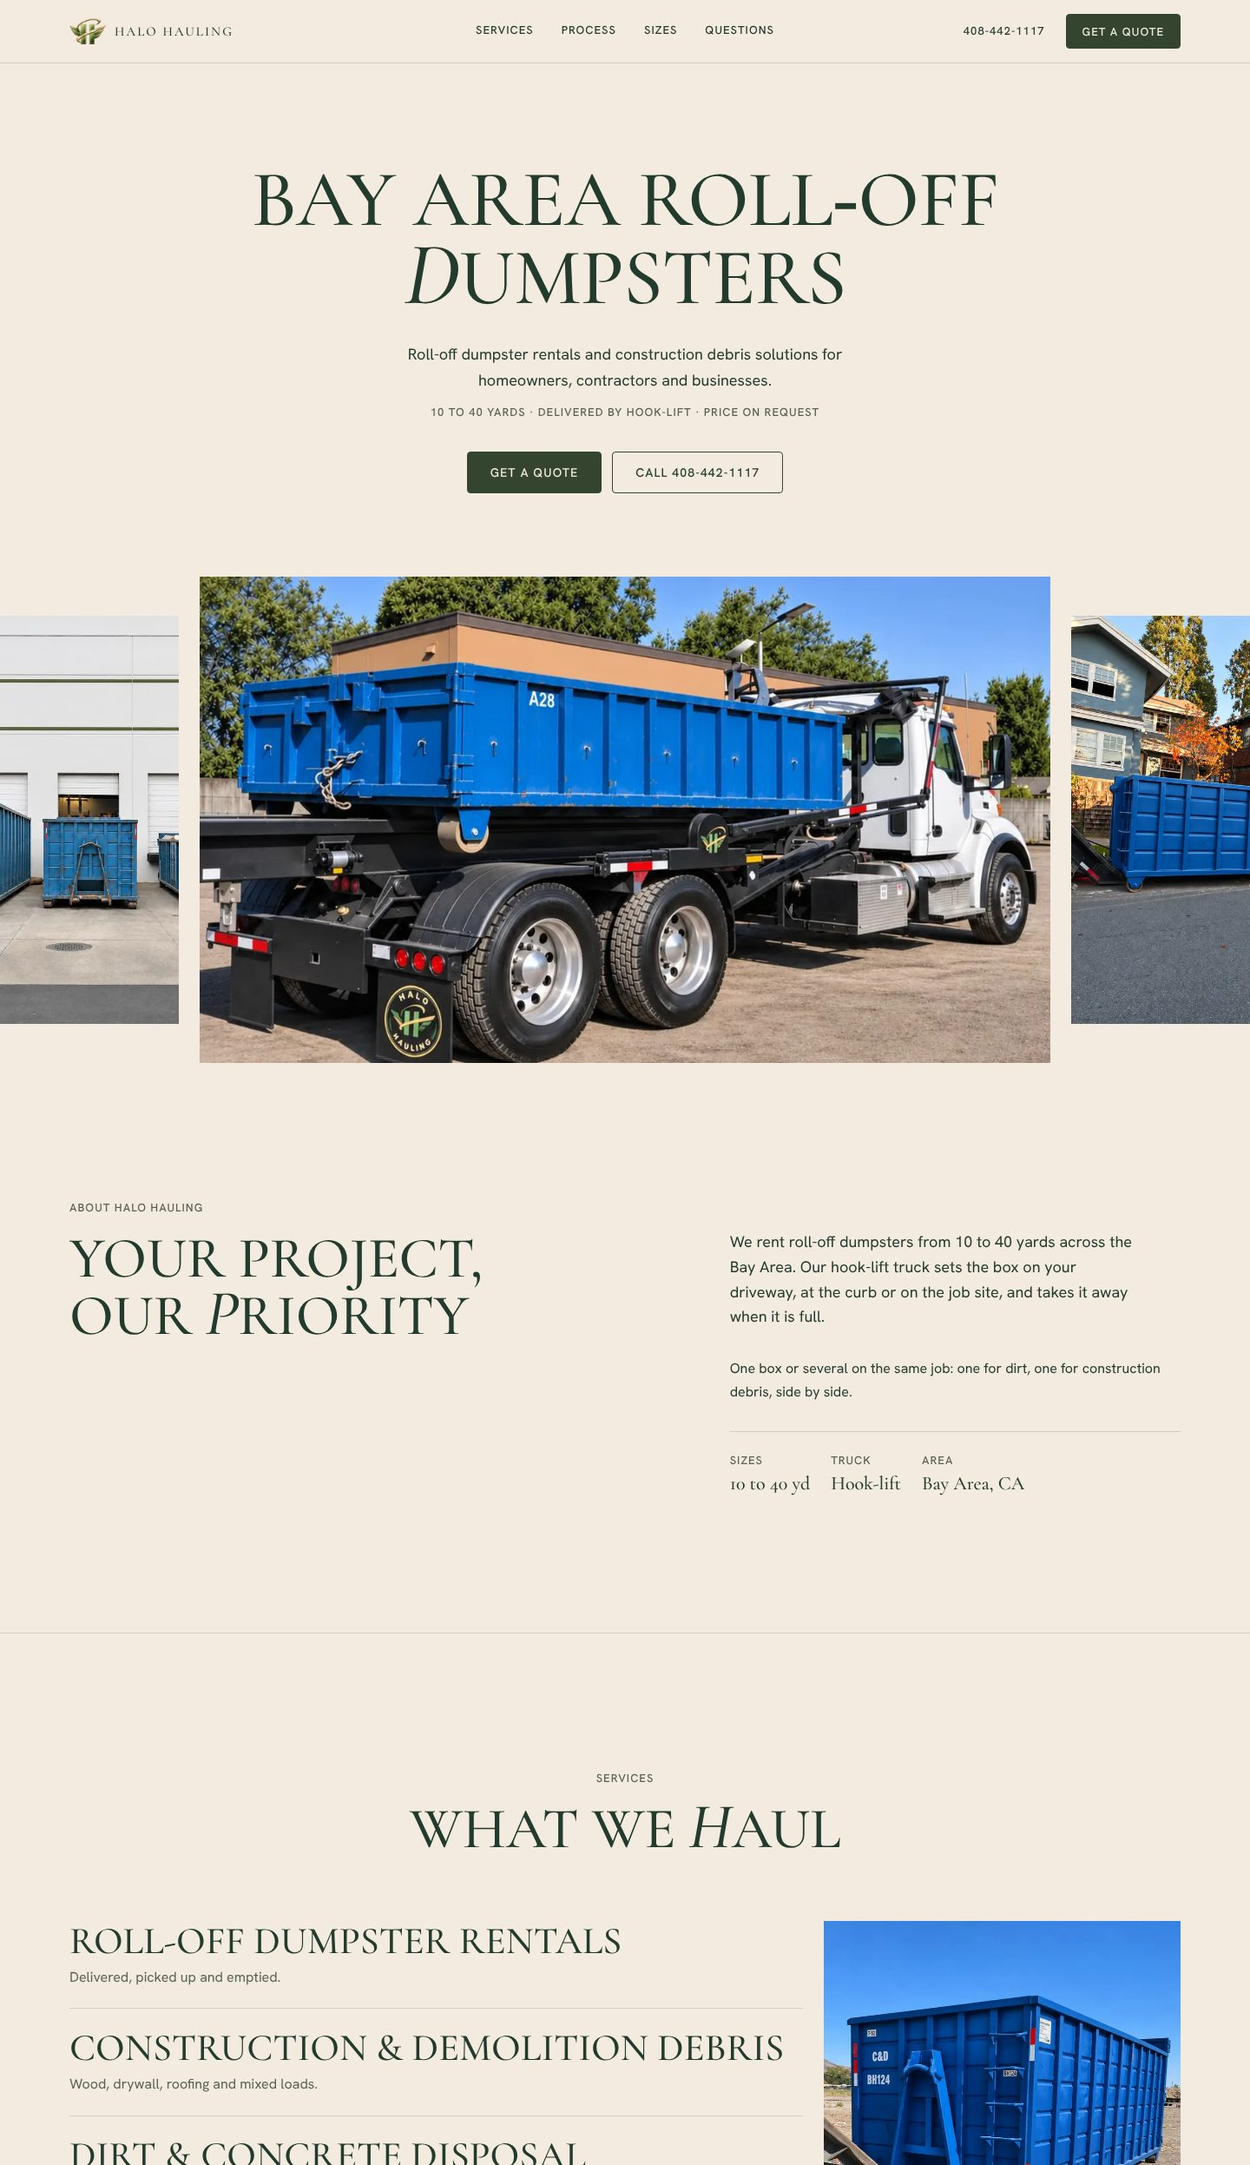
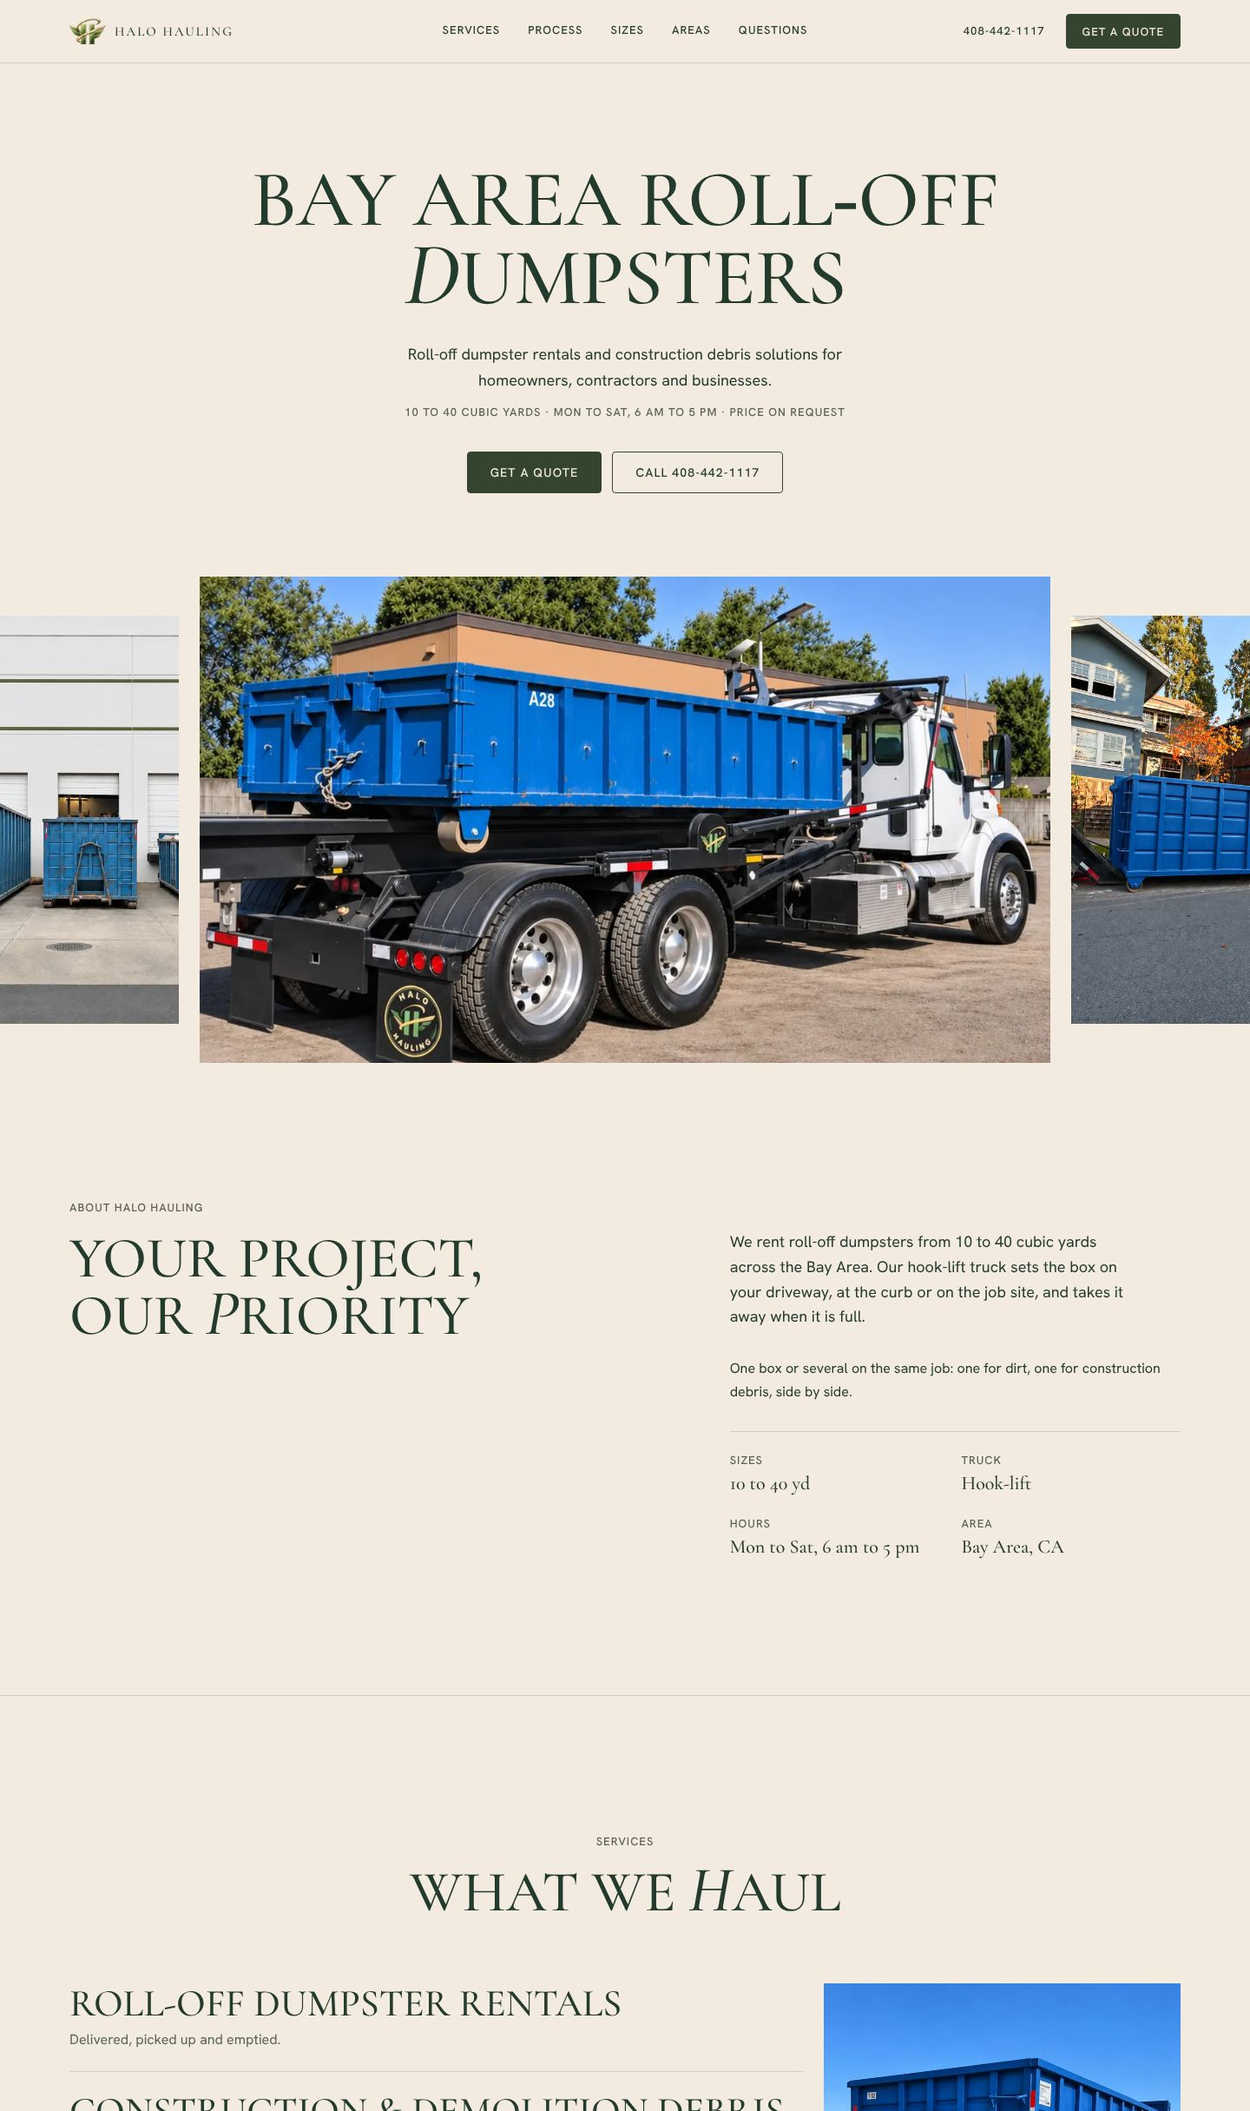
Landing page: add hours, six sizes, materials, service areas and placement
Claude-Session: https://claude.ai/code/session_01D1zbuP5dsXHYhoAWNQLH19

diff --git a/index.html b/index.html
@@ -109,11 +109,11 @@ section { padding-block: clamp(80px, 11vw, 160px); }
 .intro__head { grid-column: 1 / span 6; }
 .intro__head .h2 { margin-top: 16px; }
 .intro__body { grid-column: 8 / span 5; padding-top: 34px; display: grid; gap: 32px; }
-.facts { display: grid; grid-template-columns: repeat(3, auto); gap: 24px; justify-content: start; border-top: 1px solid var(--line); padding-top: 24px; }
+.facts { display: grid; grid-template-columns: repeat(2, auto); gap: 24px 48px; justify-content: start; border-top: 1px solid var(--line); padding-top: 24px; }
 .facts dt { margin-bottom: 4px; }
 .facts dd { font: 500 22px/1.2 var(--serif); }
 @media (max-width: 1023px) { .intro__head, .intro__body { grid-column: 1 / -1; } .intro__body { padding-top: 0; } }
-@media (max-width: 479px) { .facts { grid-template-columns: 1fr 1fr; } }
+@media (max-width: 479px) { .facts { grid-template-columns: 1fr; gap: 16px; } }
 
 /* services: the names set large, one photograph beside them */
 .services { border-top: 1px solid var(--line); }
@@ -148,16 +148,39 @@ section { padding-block: clamp(80px, 11vw, 160px); }
 .sizes__head > div { grid-column: 1 / span 7; }
 .sizes__head .h2 { margin-top: 16px; }
 .sizes__head > p { grid-column: 9 / span 4; }
-.size-row { display: grid; grid-template-columns: repeat(5, minmax(0, 1fr)); gap: 24px; }
+.size-row { display: grid; grid-template-columns: repeat(6, minmax(0, 1fr)); gap: 24px; }
+.sizes__note { margin-top: 40px; padding-top: 20px; border-top: 1px solid var(--line); font: 500 22px/1.3 var(--serif); }
 .size { border-top: 1px solid var(--forest); padding-top: 20px; }
-.size__n { font: 500 clamp(56px, 6vw, 88px)/.9 var(--serif); }
+.size__n { font: 500 clamp(52px, 5.2vw, 76px)/.9 var(--serif); white-space: nowrap; }
 .size__n span { font: 500 13px/1 var(--sans); letter-spacing: .08em; text-transform: uppercase; margin-left: 6px; }
 .size p + p { margin-top: 14px; }
 @media (max-width: 1023px) { .sizes__head > div, .sizes__head > p { grid-column: 1 / -1; } .size-row { grid-template-columns: repeat(3, minmax(0, 1fr)); row-gap: 40px; } }
 @media (max-width: 639px) { .size-row { grid-template-columns: 1fr 1fr; } }
 
+/* materials */
+.materials { border-top: 1px solid var(--line); }
+.mat { display: grid; grid-template-columns: repeat(12, minmax(0, 1fr)); gap: 40px 24px; }
+.mat__col:first-child { grid-column: 1 / span 5; }
+.mat__col:last-child { grid-column: 7 / span 6; }
+.mat__h { font: 500 28px/1.1 var(--serif); text-transform: uppercase; padding-bottom: 16px; border-bottom: 1px solid var(--forest); margin-bottom: 20px; }
+.mat__list li { padding: 14px 0; border-bottom: 1px solid var(--line); font-size: 18px; }
+.mat__list li:first-child { padding-top: 0; }
+.mat__tags { display: flex; flex-wrap: wrap; gap: 8px; margin-top: 20px; }
+.mat__tags li { border: 1px solid rgba(35, 59, 44, .35); border-radius: 999px; padding: 6px 14px; font-size: 15px; }
+.mat__fine { margin-top: 20px; color: var(--muted); }
+@media (max-width: 1023px) { .mat__col:first-child, .mat__col:last-child { grid-column: 1 / -1; } }
+
+/* service area: on the dark band */
+.regions { display: grid; grid-template-columns: repeat(2, minmax(0, 1fr)); gap: 0 24px; }
+.regions > div { padding: 28px 0; border-top: 1px solid rgba(243, 234, 224, .22); }
+.regions > div:nth-child(3) { grid-column: 1 / -1; }
+.regions dt { font: 500 28px/1.1 var(--serif); text-transform: uppercase; margin-bottom: 12px; }
+.regions dd { color: #dcd6c9; max-width: 110ch; }
+.areas__note { margin-top: 8px; padding-top: 28px; border-top: 1px solid rgba(243, 234, 224, .22); color: var(--sage); }
+@media (max-width: 767px) { .regions { grid-template-columns: 1fr; } }
+
 /* questions */
-.faq-wrap { border-top: 1px solid var(--line); }
+.faq-wrap { border-top: 0; }
 .faq__head { grid-column: 1 / span 5; }
 .faq__head .h2 { margin-top: 16px; }
 .faq__head p + p, .faq__head h2 + p { margin-top: 24px; }
@@ -251,6 +274,7 @@ section { padding-block: clamp(80px, 11vw, 160px); }
       <a href="#services">Services</a>
       <a href="#process">Process</a>
       <a href="#sizes">Sizes</a>
+      <a href="#areas">Areas</a>
       <a href="#questions">Questions</a>
     </nav>
     <div class="nav__end">
@@ -268,7 +292,7 @@ section { padding-block: clamp(80px, 11vw, 160px); }
     <div class="wrap">
       <h1 class="display" id="hero-h">Bay Area roll&#8209;off <br class="lg"><em>D</em>umpsters</h1>
       <p class="hero__sub">Roll-off dumpster rentals and construction debris solutions for homeowners, contractors and businesses.</p>
-      <p class="hero__tags caps">10 to 40 yards &middot; Delivered by hook-lift &middot; Price on request</p>
+      <p class="hero__tags caps">10 to 40 cubic yards &middot; Mon to Sat, 6 am to 5 pm &middot; Price on request</p>
       <div class="hero__actions">
         <a class="btn btn--fill" href="#quote">Get a quote</a>
         <a class="btn btn--line" href="tel:+14084421117">Call 408-442-1117</a>
@@ -288,11 +312,12 @@ section { padding-block: clamp(80px, 11vw, 160px); }
         <h2 class="h2" id="intro-h">Your project, <br>our <em>P</em>riority</h2>
       </div>
       <div class="intro__body">
-        <p class="lead">We rent roll-off dumpsters from 10 to 40 yards across the Bay Area. Our hook-lift truck sets the box on your driveway, at the curb or on the job site, and takes it away when it is full.</p>
+        <p class="lead">We rent roll-off dumpsters from 10 to 40 cubic yards across the Bay Area. Our hook-lift truck sets the box on your driveway, at the curb or on the job site, and takes it away when it is full.</p>
         <p>One box or several on the same job: one for dirt, one for construction debris, side by side.</p>
         <dl class="facts">
           <div><dt class="label">Sizes</dt><dd>10 to 40 yd</dd></div>
           <div><dt class="label">Truck</dt><dd>Hook-lift</dd></div>
+          <div><dt class="label">Hours</dt><dd>Mon to Sat, 6 am to 5 pm</dd></div>
           <div><dt class="label">Area</dt><dd>Bay Area, CA</dd></div>
         </dl>
       </div>
@@ -354,15 +379,62 @@ section { padding-block: clamp(80px, 11vw, 160px); }
           <p class="label">Find your perfect fit</p>
           <h2 class="h2" id="sizes-h">Dumpster <em>S</em>izes</h2>
         </div>
-        <p>Price on request. Tell us the job and we name the size that fits.</p>
+        <p>Six sizes, in cubic yards. Every price is quoted for the job: the city, the address and the size.</p>
       </div>
       <ul class="size-row">
         <li class="size"><p class="size__n">10<span>yard</span></p><p>Small cleanouts and heavy debris</p></li>
         <li class="size"><p class="size__n">15<span>yard</span></p><p>Home renovations and remodels</p></li>
         <li class="size"><p class="size__n">20<span>yard</span></p><p>Medium construction projects</p></li>
+        <li class="size"><p class="size__n">25<span>yard</span></p><p>A step up from the 20-yard</p></li>
         <li class="size"><p class="size__n">30<span>yard</span></p><p>Large renovations and demolition</p></li>
         <li class="size"><p class="size__n">40<span>yard</span></p><p>Major construction and cleanouts</p></li>
       </ul>
+      <p class="sizes__note">Concrete, dirt and mixed heavy debris go in the 10-yard container only.</p>
+    </div>
+  </section>
+
+  <section class="materials" id="materials" aria-labelledby="materials-h">
+    <div class="wrap">
+      <div class="services__head">
+        <p class="label">Materials</p>
+        <h2 class="h2" id="materials-h">What goes <em>I</em>n</h2>
+      </div>
+      <div class="mat">
+        <div class="mat__col">
+          <h3 class="mat__h">Accepted</h3>
+          <ul class="mat__list">
+            <li>Construction and demolition debris</li>
+            <li>Dirt and concrete, in the 10-yard container</li>
+            <li>Mixed heavy debris, in the 10-yard container</li>
+            <li>Residential and commercial cleanout loads</li>
+          </ul>
+        </div>
+        <div class="mat__col">
+          <h3 class="mat__h">Prohibited</h3>
+          <p>Radioactive, volatile, highly flammable, explosive, biomedical, infectious, toxic or hazardous materials. For example:</p>
+          <ul class="mat__tags">
+            <li>Fluorescent lights</li><li>PCB ballasts</li><li>Oil filters</li><li>Acids</li><li>Ammunition</li><li>Anti-freeze</li><li>Asbestos</li><li>Batteries</li><li>Explosives</li><li>Gas tanks</li><li>Gasoline</li><li>Hazardous chemicals</li><li>Insecticides</li><li>Medical waste</li><li>Paint, stains and varnishes</li><li>Paint thinners and solvents</li><li>Pesticides</li><li>Garden chemicals</li><li>Poisons</li><li>Propane tanks</li><li>Motor oil</li>
+          </ul>
+          <p class="mat__fine">5-gallon barrels are accepted only when completely empty and open on both ends. Dry and fully drained paint cans are acceptable.</p>
+        </div>
+      </div>
+    </div>
+  </section>
+
+  <section class="dark areas" id="areas" aria-labelledby="areas-h">
+    <div class="wrap">
+      <div class="process__head">
+        <p class="label">Service area</p>
+        <h2 class="h2" id="areas-h">Where we <em>D</em>eliver</h2>
+      </div>
+      <dl class="regions">
+        <div><dt>South Bay</dt><dd>San Jose, Alviso, Campbell, Cupertino, Gilroy, Los Altos, Los Altos Hills, Los Gatos, Milpitas, Monte Sereno, Morgan Hill, Mountain View, Palo Alto, San Martin, Santa Clara, Saratoga, Sunnyvale</dd></div>
+        <div><dt>Peninsula and San Francisco</dt><dd>Atherton, Belmont, Daly City, East Palo Alto, Foster City, Half Moon Bay, Hillsborough, Menlo Park, Millbrae, Pacifica, Portola Valley, Redwood City, San Bruno, San Carlos, San Francisco, San Mateo, Woodside</dd></div>
+        <div><dt>East Bay</dt><dd>Alameda, Alamo, Albany, Berkeley, Brentwood, Byron, Castro Valley, Clayton, Concord, Crockett, Danville, Diablo, Discovery Bay, Dublin, El Cerrito, El Sobrante, Emeryville, Fremont, Hercules, Kensington, Lafayette, Livermore, Martinez, Newark, Oakland, Oakley, Orinda, Pacheco, Piedmont, Pinole, Pittsburg, Pleasant Hill, Pleasanton, Richmond, Rodeo, San Leandro, San Lorenzo, San Pablo, San Ramon, Sunol, Union City, Walnut Creek</dd></div>
+        <div><dt>North Bay</dt><dd>Benicia, Corte Madera, Fairfield, Greenbrae, Larkspur, Mill Valley, Napa, Novato, San Anselmo, San Rafael, Vallejo</dd></div>
+        <div><dt>Sacramento area</dt><dd>Antelope, Arcade, Arden Town, Carmichael, Citrus Heights, Courtland, Del Paso Heights, Elk Grove, Elverta, Fair Oaks, Franklin, Freeport, Fruitridge Manor, Gold River, Herald, La Riviera, North Highlands, North Sacramento, Oak Park, Orangevale, Rancho Cordova, Rio Linda, Rosemont, South Sacramento, Vacaville, Vineyard, Wilton</dd></div>
+      </dl>
+      <p class="areas__note">Not on the list? Send the job address and we confirm.</p>
     </div>
   </section>
 
@@ -374,10 +446,10 @@ section { padding-block: clamp(80px, 11vw, 160px); }
         <p>Something else to ask? Call <a href="tel:+14084421117">408-442-1117</a>.</p>
       </div>
       <ul class="faq">
-        <li><h3>How much does a dumpster cost?</h3><p>It depends on the size, the material and the job address. Send those and we quote your job.</p></li>
+        <li><h3>How much does a dumpster cost?</h3><p>Every price is quoted for the job. It depends on the city, the address and the size.</p></li>
         <li><h3>Can I rent more than one dumpster?</h3><p>Yes. We set several on one job, such as one for dirt and one for debris.</p></li>
-        <li><h3>What can go in the dumpster?</h3><p>Construction and demolition debris, dirt, concrete and cleanout loads.</p></li>
-        <li><h3>Which areas get delivery?</h3><p>The Bay Area. Send the job address and we confirm.</p></li>
+        <li><h3>Where can the dumpster go?</h3><p>On your driveway or on the street for residential jobs.</p></li>
+        <li><h3>When are you open?</h3><p>Monday to Saturday, 6 am to 5 pm. We are closed on Sunday.</p></li>
         <li><h3>How do I book a dumpster?</h3><p>Send the quote request or call. We confirm the size, the price and the delivery day.</p></li>
       </ul>
     </div>
@@ -401,7 +473,7 @@ section { padding-block: clamp(80px, 11vw, 160px); }
           <div class="field"><label for="f-size">Dumpster size</label>
             <select id="f-size" name="size" required aria-describedby="f-size-err">
               <option value="">Choose a size</option><option>Not sure yet</option>
-              <option>10-yard</option><option>15-yard</option><option>20-yard</option><option>30-yard</option><option>40-yard</option>
+              <option>10-yard</option><option>15-yard</option><option>20-yard</option><option>25-yard</option><option>30-yard</option><option>40-yard</option>
             </select>
             <p class="field__error" id="f-size-err" hidden>Choose a size, or "Not sure yet".</p></div>
           <div class="field"><label for="f-material">Material</label>
@@ -434,9 +506,9 @@ section { padding-block: clamp(80px, 11vw, 160px); }
       <img src="img/logo-badge.png" alt="Halo Hauling" width="240" height="240" loading="lazy">
       <p>Roll-off dumpsters and debris hauling in the Bay Area, CA.</p>
     </div>
-    <div class="footer__col footer__col--first"><p class="label">Menu</p><a href="#services">Services</a><a href="#process">Process</a><a href="#sizes">Sizes</a><a href="#questions">Questions</a></div>
+    <div class="footer__col footer__col--first"><p class="label">Menu</p><a href="#services">Services</a><a href="#process">Process</a><a href="#sizes">Sizes</a><a href="#areas">Areas</a><a href="#questions">Questions</a></div>
     <div class="footer__col"><p class="label">Follow</p><a href="https://www.instagram.com/halohauling/">Instagram</a></div>
-    <div class="footer__col"><p class="label">Contact</p><a href="tel:+14084421117">408-442-1117</a><a href="#quote">Request a quote</a></div>
+    <div class="footer__col"><p class="label">Contact</p><a href="tel:+14084421117">408-442-1117</a><a href="#quote">Request a quote</a><p>Mon to Sat, 6 am to 5 pm<br>Closed Sunday</p></div>
   </div>
   <div class="marquee">
     <a href="#quote" aria-label="Get a quote"><div class="marquee__track" aria-hidden="true"><span>Get a quote</span><span>Get a quote</span><span>Get a quote</span><span>Get a quote</span><span>Get a quote</span><span>Get a quote</span></div></a>

diff --git a/docs/content-todo.md b/docs/content-todo.md
@@ -1,40 +1,27 @@
-# Content To Confirm Before Launch
+# Content status
 
-Edit most of these in `src/site.ts`. Search the code for `TODO` to find the rest.
+## Confirmed and on the landing page
+- Phone: 408-442-1117
+- Hours: Monday to Saturday, 6 am to 5 pm; closed Sunday
+- Sizes: 10, 15, 20, 25, 30, 40 cubic yards
+- Heavy debris (concrete, dirt, mixed heavy) in 10-yard containers only
+- Prices: quoted per job (city, address, size); none shown
+- Placement: driveway or street for residential
+- Prohibited materials list
+- Service area: cities by region (South Bay, Peninsula and San Francisco, East Bay, North Bay, Sacramento area)
 
-## Business info
-- [ ] Business phone number (`site.phone`) — turns on Call buttons
-- [ ] Domain decision: site + emails use **gohalohauling.com** (change in `src/site.ts` if different)
-- [ ] Set up Google Workspace: info@, dispatch@, billing@ (dispatch/billing can be aliases at first)
-- [ ] Web3Forms access key (`site.formKey`) — free at web3forms.com, register with dispatch@ email
+## Kept off the website on purpose
+- Rental terms, extra-day and overage fees: these go in the service agreement sent before booking
+- Prices
 
-## Services (only list what you actually provide)
-- [ ] Confirm: Roll-off rentals, C&D debris, Dirt & concrete, Residential & commercial cleanouts
-- [x] Sizes: 10 / 15 / 20 / 30 / 40 yd (confirmed)
-- [ ] Dimensions per size (`sizes[].dims`)
-- [ ] Prices, or keep "request a quote" (`sizes[].price`)
-- [ ] Weight limits / overage fees, rental period, extension fee
-- [ ] Prohibited items list (check with your disposal facility)
-
-## LEED / Green Halo — PHASE 2 (owner: yes, later; no certificates yet)
-- [ ] What LEED documentation you actually provide (weight tickets? diversion %? PDF summary?)
-- [ ] Do you upload tickets into Green Halo for customers, or only supply them?
-- [ ] Facilities you haul to (for diversion claims)
-
-## Service area
-- [ ] Exact cities served (`site.cities`)
-
-## FAQ answers (src/pages/index.astro)
-- [ ] How long can I keep it?
-- [ ] Driveway protection
-- [ ] Delivery lead time
-
-## Photos & logo (put in `public/images/`)
-- [x] Logo: transparent PNGs received (docs/reference/brand/). SVG optional later.
-- [x] 9 real photos received and assigned (docs/reference/photos/, see design-direction.md §6)
-
-## Launch
-- [ ] Connect repo to Cloudflare Pages (build: `npm run build`, output: `dist`)
-- [ ] Point gohalohauling.com DNS to Cloudflare Pages
-- [ ] Create a Google Business Profile, link the site
-- [ ] Add website link to Instagram bio
+## Still open
+- [ ] Delivery notice: same-day, next-day, or how much notice?
+- [ ] Where quote requests should go (no Halo email yet): a private email, or text messages to the business phone?
+- [ ] A use label for the 25-yard size (currently "A step up from the 20-yard")
+- [ ] May the site say "no weight limit for heavy debris"?
+- [ ] Confirm the Sacramento area belongs on a page headed "Bay Area"
+- [ ] Cities left off the list for checking: Felton, Moss Landing, Briones
+- [ ] Trust items later: licence and insurance, reviews, your story
+- [ ] More photos (owner will upload to GitHub)
+- [ ] Phase 2: C&D recycling, LEED reports, Green Halo support; ongoing service for businesses
+- [ ] Launch: hosting, connect gohalohauling.com, Google Business Profile, website link in Instagram bio
